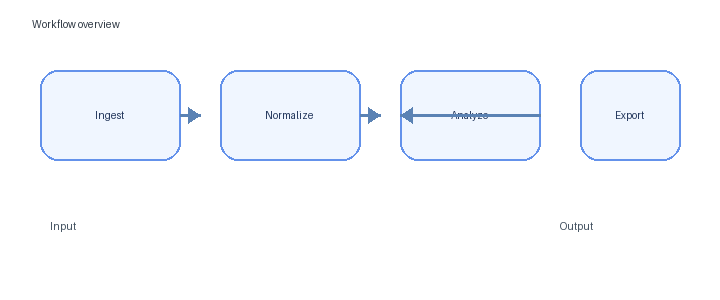
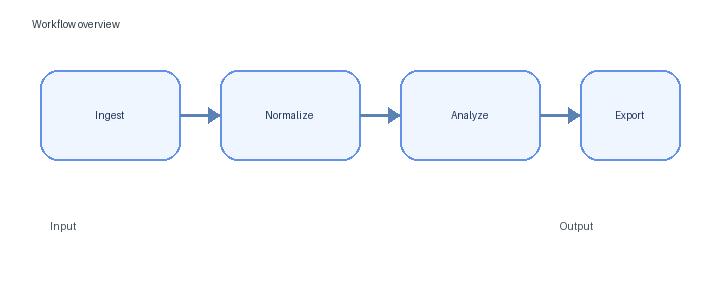
Update sample PDF and related images for improved clarity and layout

Changed region(s): [[0.4889, 0.36, 0.825, 0.42], [0.2444, 0.36, 0.3056, 0.42]]

diff --git a/scripts/generate_sample_pdf.py b/scripts/generate_sample_pdf.py
@@ -64,7 +64,7 @@ def make_line_chart(path: Path) -> None:
 
     drawer.text((plot_left, 10), "Traffic and engagement trend", fill=(40, 44, 52), anchor="la")
     drawer.text((plot_left, plot_bottom + 28), "Weeks", fill=(60, 72, 90))
-    drawer.text((10, plot_top + 12), "Visits", fill=(60, 72, 90), rotate=90)
+    drawer.text((10, plot_top + 12), "Visits", fill=(60, 72, 90))
     image.save(path)
 
 
@@ -98,7 +98,7 @@ def make_bar_chart(path: Path) -> None:
 
     drawer.text((plot_left, 12), "Regional performance", fill=(40, 44, 52))
     drawer.text((plot_left, plot_bottom + 28), "Region", fill=(60, 72, 90))
-    drawer.text((8, plot_top + 30), "Score", fill=(60, 72, 90), rotate=90)
+    drawer.text((8, plot_top + 30), "Score", fill=(60, 72, 90))
     image.save(path)
 
 
@@ -135,12 +135,12 @@ def make_process_diagram(path: Path) -> None:
         (400, 70, 540, 160, "Analyze"),
         (580, 70, 680, 160, "Export"),
     ]
-    for left, top, right, bottom, label in box_specs:
+    for index, (left, top, right, bottom, label) in enumerate(box_specs):
         drawer.rounded_rectangle((left, top, right, bottom), radius=18, fill=(240, 246, 255), outline=(100, 146, 235), width=2)
         drawer.text(((left + right) / 2, (top + bottom) / 2), label, fill=(32, 52, 90), anchor="mm")
-        if label != "Export":
-            target_x = right + 20 if label != "Analyze" else 400
-            draw_arrow(drawer, right, (top + bottom) / 2, target_x, (top + bottom) / 2, (90, 130, 180), 3)
+        if index < len(box_specs) - 1:
+            next_left = box_specs[index + 1][0]
+            draw_arrow(drawer, right, (top + bottom) / 2, next_left, (top + bottom) / 2, (90, 130, 180), 3)
 
     drawer.text((50, 220), "Input", fill=(65, 80, 95))
     drawer.text((560, 220), "Output", fill=(65, 80, 95))
